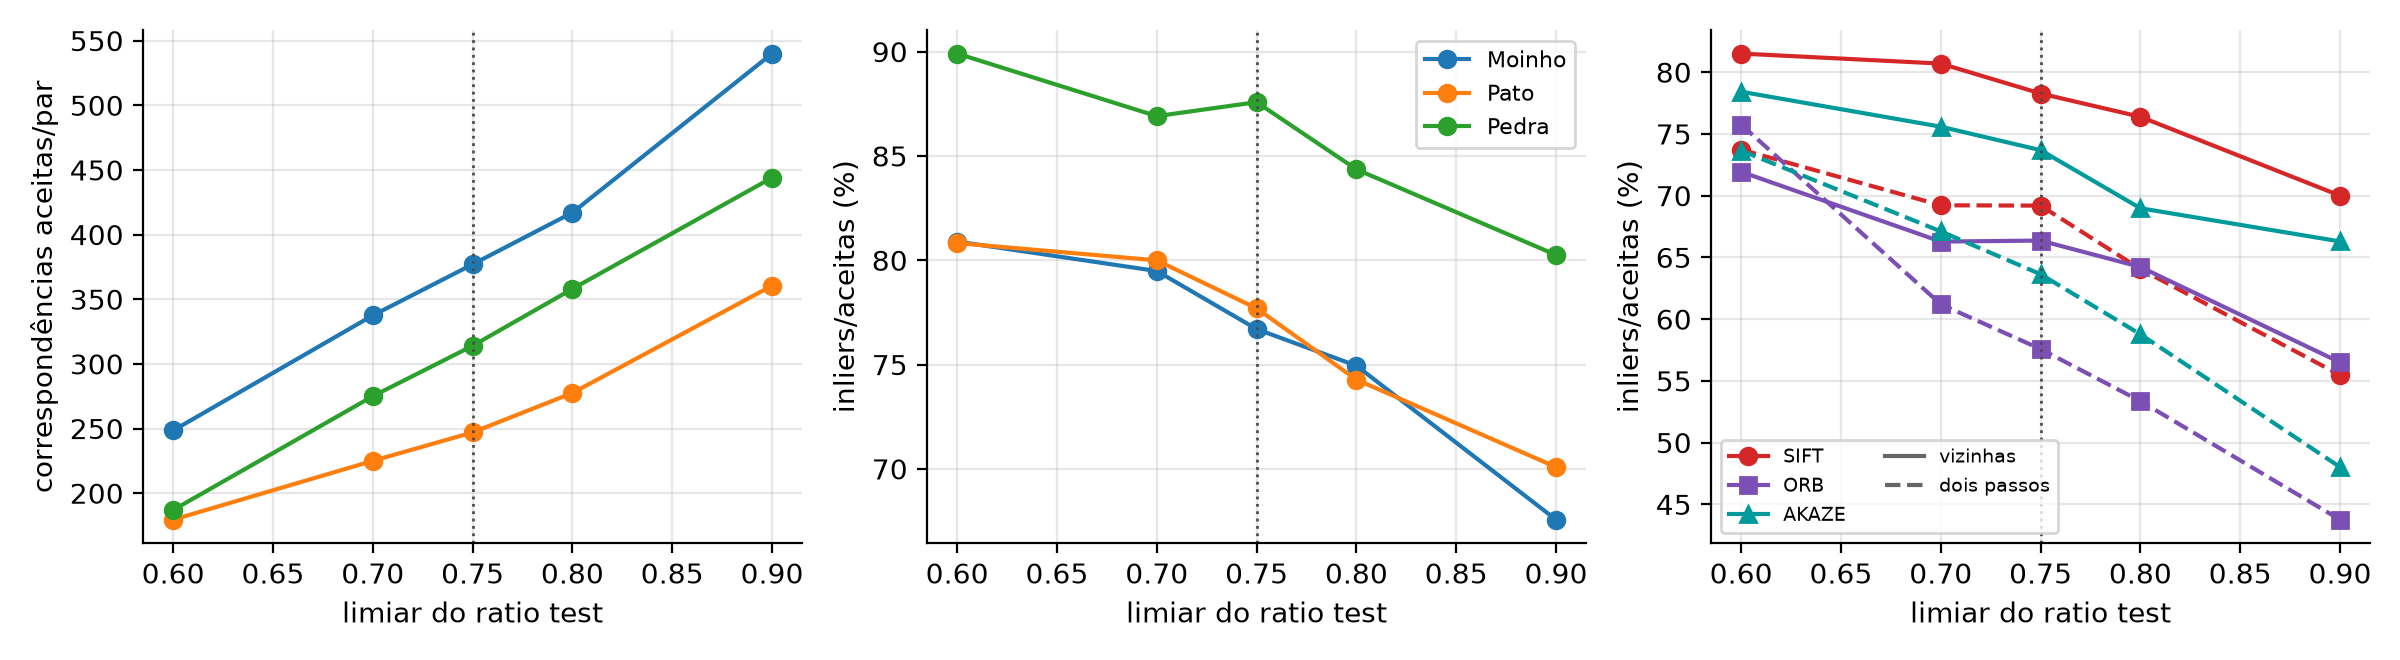
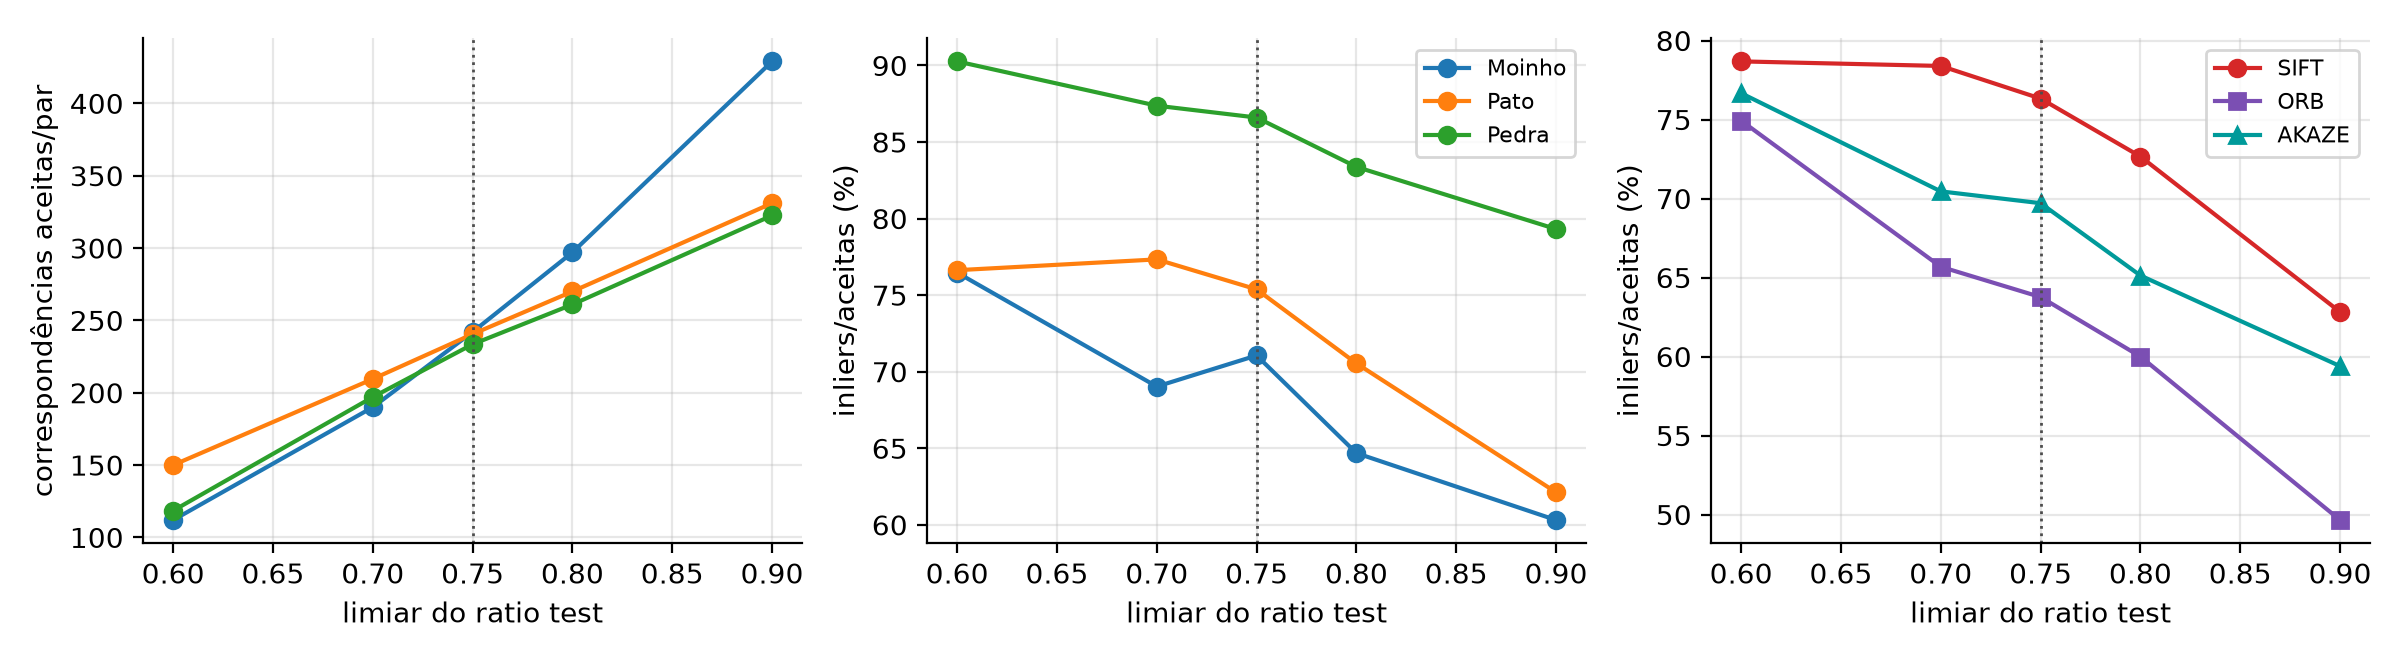
Comparação dos detectores sobre os 12 pares juntos, sem separar por distância
Claude-Session: https://claude.ai/code/session_01Qg1cBhzEfvPbPEaJo7kHLT

diff --git a/trabalho-2/figura_parametros.py b/trabalho-2/figura_parametros.py
@@ -13,7 +13,6 @@ from parametros import RATIOS, SIDES, THRESHOLDS_PX, median_curve
 
 OBJECTS = {"moinho": "Moinho", "pato": "Pato", "pedra": "Pedra"}
 DETECTORS = {"SIFT": ("#d62728", "o"), "ORB": ("#7b4fb3", "s"), "AKAZE": ("#009a9a", "^")}
-GAPS = {1: "vizinhas", 2: "dois passos"}
 FAIL_DEG = 5.0
 
 
@@ -24,22 +23,22 @@ def complete(rows, **fixed):
     return [r for r in sel if r["par"] in ok]
 
 
-def failure_pct(rows, detector, gap):
+def failure_pct(rows, detector):
     # Configurations that produced no pose at all count as failures.
     grid = {(features.MAX_SIDE, r, features.F_THRESHOLD_PX) for r in RATIOS}
     grid |= {(features.MAX_SIDE, features.RATIO, t) for t in THRESHOLDS_PX}
     grid |= {(s, features.RATIO, features.F_THRESHOLD_PX) for s in SIDES}
-    pairs = {r["par"] for r in rows if r["gap"] == gap}
-    done = {(r["par"], r["lado_px"], r["ratio"], r["limiar_px"]): r for r in rows if r["detector"] == detector and r["gap"] == gap}
+    pairs = {r["par"] for r in rows}
+    done = {(r["par"], r["lado_px"], r["ratio"], r["limiar_px"]): r for r in rows if r["detector"] == detector}
     fails = [(p, *g) not in done or done[(p, *g)]["erro_R_graus"] > FAIL_DEG for p in pairs for g in grid]
     return 100 * np.mean(fails)
 
 
-def default_pairs(rows, detector, gap):
+def default_pairs(rows, detector):
     # Pose errors per pair at the default configuration; None when no pose was estimated.
-    done = {r["par"]: r for r in rows if r["detector"] == detector and r["gap"] == gap
+    done = {r["par"]: r for r in rows if r["detector"] == detector
             and (r["lado_px"], r["ratio"], r["limiar_px"]) == (features.MAX_SIDE, features.RATIO, features.F_THRESHOLD_PX)}
-    return [done.get(p) for p in sorted({r["par"] for r in rows if r["gap"] == gap})]
+    return [done.get(p) for p in sorted({r["par"] for r in rows})]
 
 
 def style(ax, xlabel, ylabel):
@@ -54,67 +53,41 @@ def ratio_figure(rows, saida):
     fig, axes = plt.subplots(1, 3, figsize=(12, 3.3))
     for k, (o, label) in enumerate(OBJECTS.items()):
         for ax, y in zip(axes[:2], ("matches", "inliers_F_pct")):
-            xs, ys = median_curve(complete(rows[o], detector="SIFT", gap=1, **base), "ratio", y)
+            xs, ys = median_curve(complete(rows[o], detector="SIFT", **base), "ratio", y)
             ax.plot(xs, ys, "o-", color=f"C{k}", label=label)
     style(axes[0], "limiar do ratio test", "correspondências aceitas/par")
     style(axes[1], "limiar do ratio test", "inliers/aceitas (%)")
     axes[1].legend(fontsize=8)
     for name, (color, marker) in DETECTORS.items():
-        for gap, ls in ((1, "-"), (2, "--")):
-            pooled = [r for o in OBJECTS for r in complete(rows[o], detector=name, gap=gap, **base)]
-            xs, ys = median_curve(pooled, "ratio", "inliers_F_pct")
-            axes[2].plot(xs, ys, ls, marker=marker, color=color, label=name if gap == 1 else None)
-    for gap, ls in ((1, "-"), (2, "--")):
-        axes[2].plot([], [], ls, color="0.4", label=GAPS[gap])
+        pooled = [r for o in OBJECTS for r in complete(rows[o], detector=name, **base)]
+        xs, ys = median_curve(pooled, "ratio", "inliers_F_pct")
+        axes[2].plot(xs, ys, "-", marker=marker, color=color, label=name)
     style(axes[2], "limiar do ratio test", "inliers/aceitas (%)")
-    axes[2].legend(fontsize=7, ncol=2, loc="lower left")
+    axes[2].legend(fontsize=8)
     for ax in axes:
         ax.axvline(features.RATIO, color="0.3", ls=":", lw=1)
     fig.tight_layout()
     fig.savefig(saida / "hiperparametros_objetos.png", dpi=200)
 
 
-def failure_figure(rows, saida):
-    fig, axes = plt.subplots(1, 2, figsize=(3.6, 2.3), sharey=True)
-    x, width = np.arange(len(OBJECTS)), 0.27
-    for ax, (gap, title) in zip(axes, GAPS.items()):
-        for j, (name, (color, _)) in enumerate(DETECTORS.items()):
-            bars = ax.bar(x + (j - 1) * width, [failure_pct(rows[o], name, gap) for o in OBJECTS], width,
-                          color=color, edgecolor="white", lw=0.6, label=name)
-            ax.bar_label(bars, fmt="%.0f", fontsize=5.5, padding=1)
-        ax.set_xticks(x, list(OBJECTS.values()))
-        ax.set_title(title)
-        style(ax, "", "falhas (%)" if gap == 1 else "")
-        ax.grid(axis="x", visible=False)
-    handles, labels = axes[0].get_legend_handles_labels()
-    fig.legend(handles, labels, loc="upper center", ncol=3, frameon=False)
-    fig.tight_layout(rect=(0, 0, 1, 0.9))
-    fig.savefig(saida / "detectores_falha.png", dpi=300)
-
-
 def table(rows, saida):
-    # Per gap: median inliers, inlier %, rotation and translation errors, and failure % over the sweep.
-    digits = [0, 0, 1, 1, 0] * len(GAPS)
-    better = [max, max, min, min, min] * len(GAPS)
-    lines = [r"\begin{tabular}{ll" + "rrrrr" * len(GAPS) + "}", r"\toprule",
-             " & & " + " & ".join(rf"\multicolumn{{5}}{{c}}{{{g.capitalize()}}}" for g in GAPS.values()) + r" \\",
-             "".join(rf"\cmidrule(lr){{{3 + 5 * k}-{7 + 5 * k}}}" for k in range(len(GAPS))),
-             "Objeto & Detector" + r" & Inl. & Inl.\,(\%) & $e_R$ & $e_t$ & Falha\,(\%)" * len(GAPS) + r" \\"]
+    # Median inliers, inlier %, rotation and translation errors, and failure % over the sweep.
+    digits, better = [0, 0, 1, 1, 0], [max, max, min, min, min]
+    lines = [r"\begin{tabular}{llrrrrr}", r"\toprule",
+             r"Objeto & Detector & \textit{Inliers} & \textit{Inliers} (\%) & Erro $R$ & Erro $t$ & Falha (\%) \\"]
     for o, label in OBJECTS.items():
         block = {}
         for name in DETECTORS:
-            cells = []
-            for gap in GAPS:
-                found = [r for r in default_pairs(rows[o], name, gap) if r]
-                cells += [np.median([r[k] for r in found]) for k in ("inliers_F", "inliers_F_pct", "erro_R_graus", "erro_t_graus")]
-                cells.append(failure_pct(rows[o], name, gap))
-            block[name] = [round(v, d) for v, d in zip(cells, digits)]
+            found = [r for r in default_pairs(rows[o], name) if r]
+            cells = [np.median([r[k] for r in found]) for k in ("inliers_F", "inliers_F_pct", "erro_R_graus", "erro_t_graus")]
+            block[name] = [round(v, d) for v, d in zip(cells + [failure_pct(rows[o], name)], digits)]
         # Best detector per object and column in bold.
         best = [f(c[i] for c in block.values()) for i, f in enumerate(better)]
         lines.append(r"\midrule")
         for k, (name, cells) in enumerate(block.items()):
             text = [f"{v:.{d}f}".replace(".", ",") for v, d in zip(cells, digits)]
             text = [rf"\textbf{{{t}}}" if v == b else t for t, v, b in zip(text, cells, best)]
+            text = text[:2] + [t + r"$^\circ$" for t in text[2:4]] + text[4:]
             lines.append((label if k == 0 else "") + f" & {name} & " + " & ".join(text) + r" \\")
     lines += [r"\bottomrule", r"\end{tabular}"]
     (saida / "detectores_objetos.tex").write_text("\n".join(lines) + "\n")
@@ -123,8 +96,6 @@ def table(rows, saida):
 def main(saida):
     rows = {o: json.loads((saida / f"{o}_parametros/parametros.json").read_text())["dois_pontos"] for o in OBJECTS}
     ratio_figure(rows, saida)
-    with plt.rc_context({"font.size": 8}):
-        failure_figure(rows, saida)
     table(rows, saida)
 
 

diff --git a/trabalho-2/saida/detectores_objetos.tex b/trabalho-2/saida/detectores_objetos.tex
@@ -1,19 +1,17 @@
-\begin{tabular}{llrrrrrrrrrr}
+\begin{tabular}{llrrrrr}
 \toprule
- & & \multicolumn{5}{c}{Vizinhas} & \multicolumn{5}{c}{Dois passos} \\
-\cmidrule(lr){3-7}\cmidrule(lr){8-12}
-Objeto & Detector & Inl. & Inl.\,(\%) & $e_R$ & $e_t$ & Falha\,(\%) & Inl. & Inl.\,(\%) & $e_R$ & $e_t$ & Falha\,(\%) \\
+Objeto & Detector & \textit{Inliers} & \textit{Inliers} (\%) & Erro $R$ & Erro $t$ & Falha (\%) \\
 \midrule
-Moinho & SIFT & 296 & \textbf{77} & \textbf{0,3} & \textbf{1,3} & \textbf{0} & \textbf{72} & \textbf{50} & \textbf{0,7} & \textbf{1,0} & \textbf{23} \\
- & ORB & \textbf{400} & 63 & 0,6 & 4,1 & 3 & 50 & 33 & 4,6 & 4,3 & 38 \\
- & AKAZE & 394 & 74 & 0,7 & 4,0 & 3 & 48 & 41 & 1,7 & 2,3 & 32 \\
+Moinho & SIFT & \textbf{140} & \textbf{67} & \textbf{0,6}$^\circ$ & \textbf{1,2}$^\circ$ & \textbf{11} \\
+ & ORB & 122 & 51 & 1,0$^\circ$ & 4,3$^\circ$ & 20 \\
+ & AKAZE & 104 & 63 & 1,0$^\circ$ & 3,2$^\circ$ & 17 \\
 \midrule
-Pato & SIFT & 192 & \textbf{78} & \textbf{0,5} & \textbf{1,0} & \textbf{0} & 86 & \textbf{66} & \textbf{0,5} & \textbf{0,4} & \textbf{2} \\
- & ORB & \textbf{404} & 67 & 0,7 & 1,9 & 5 & \textbf{114} & 60 & 1,2 & 1,1 & 8 \\
- & AKAZE & 184 & 72 & \textbf{0,5} & 1,4 & \textbf{0} & 76 & 63 & 0,8 & 0,7 & \textbf{2} \\
+Pato & SIFT & 180 & \textbf{75} & \textbf{0,5}$^\circ$ & \textbf{0,8}$^\circ$ & \textbf{1} \\
+ & ORB & \textbf{217} & 63 & 0,7$^\circ$ & 1,3$^\circ$ & 6 \\
+ & AKAZE & 105 & 65 & 0,6$^\circ$ & 1,0$^\circ$ & \textbf{1} \\
 \midrule
-Pedra & SIFT & 458 & \textbf{91} & 1,0 & \textbf{9,3} & \textbf{33} & \textbf{131} & \textbf{86} & 2,1 & \textbf{2,7} & \textbf{12} \\
- & ORB & \textbf{939} & 80 & 0,7 & 52,1 & 45 & 96 & 80 & 1,6 & 5,8 & 24 \\
- & AKAZE & 143 & 77 & \textbf{0,5} & 21,7 & 36 & 54 & 75 & \textbf{1,4} & 8,8 & 23 \\
+Pedra & SIFT & \textbf{275} & \textbf{88} & 1,6$^\circ$ & \textbf{7,1}$^\circ$ & \textbf{23} \\
+ & ORB & 160 & 80 & \textbf{1,4}$^\circ$ & 11,2$^\circ$ & 35 \\
+ & AKAZE & 107 & 76 & \textbf{1,4}$^\circ$ & 10,6$^\circ$ & 30 \\
 \bottomrule
 \end{tabular}
